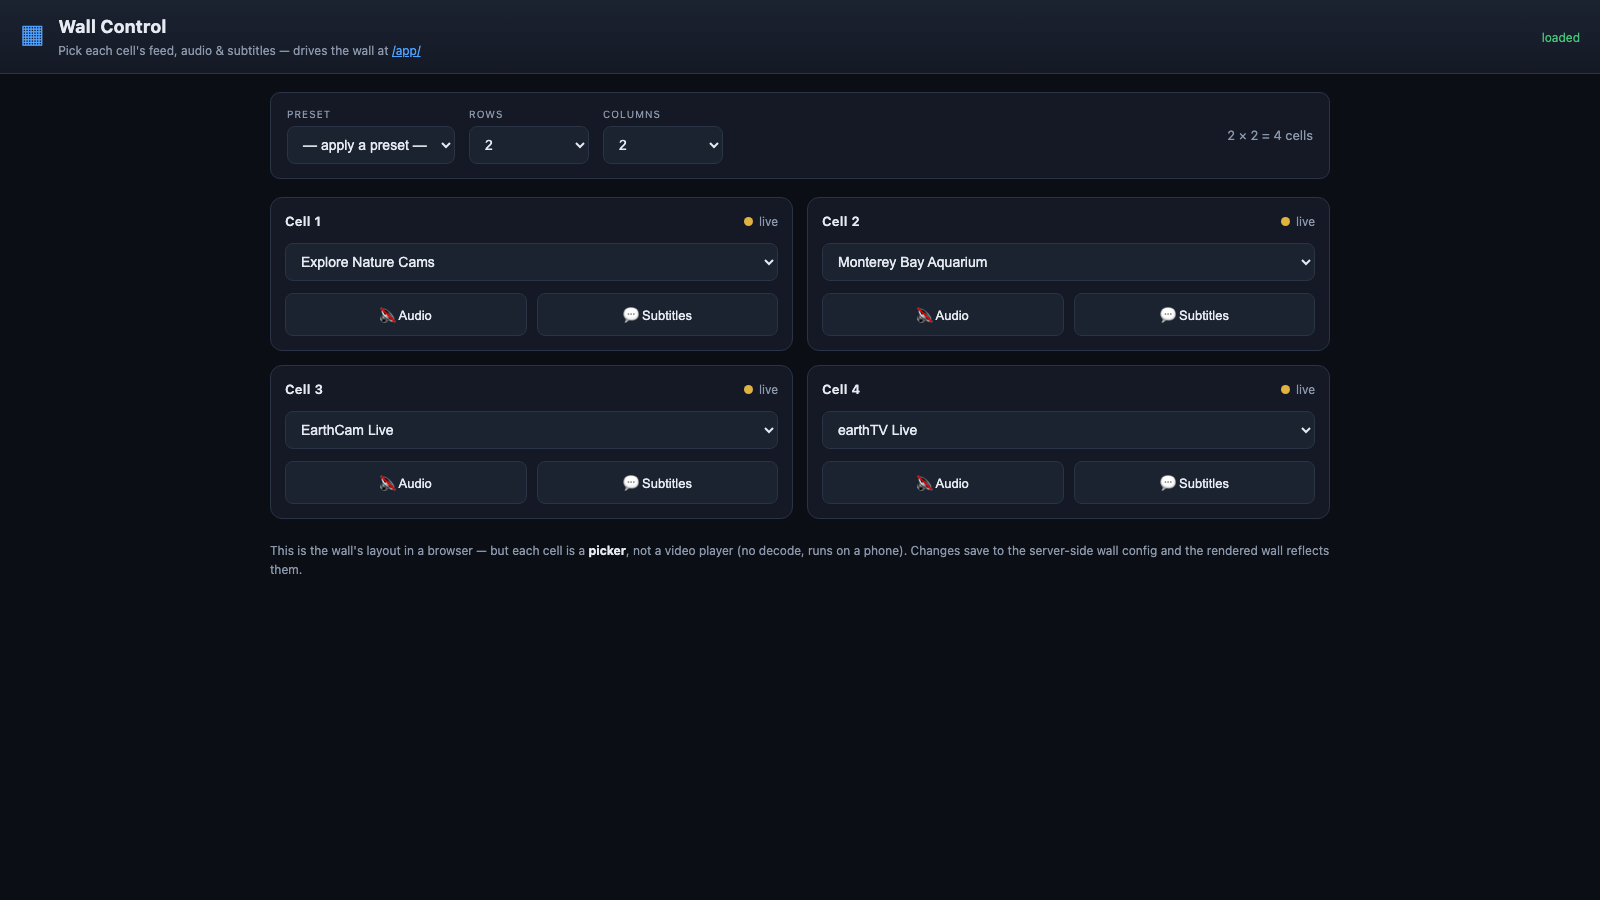
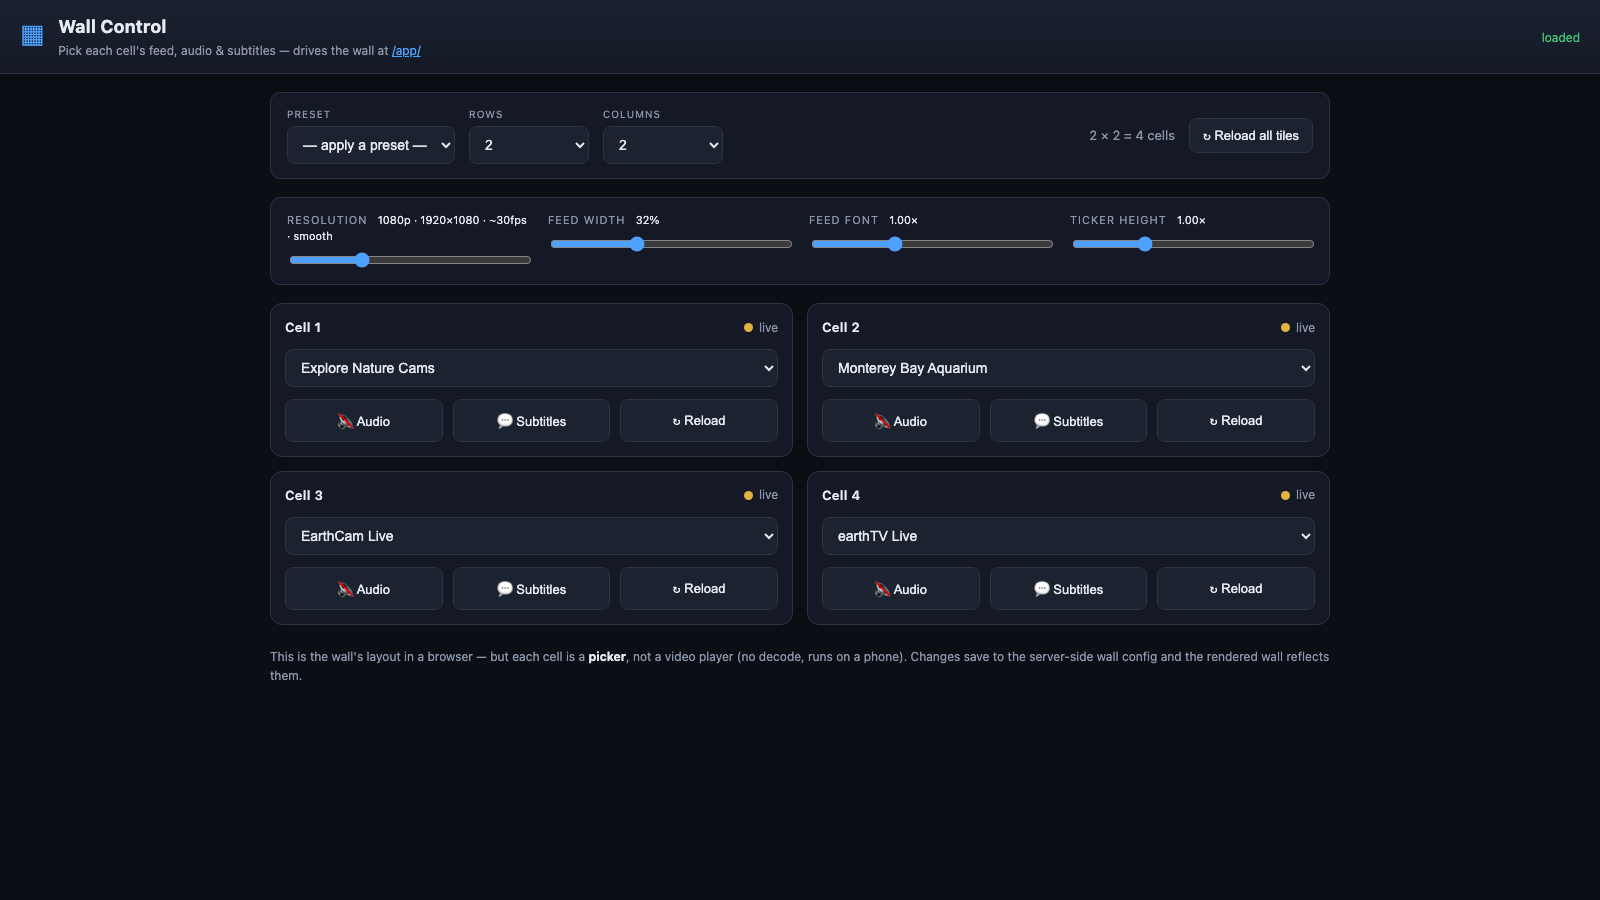
docs(gallery): capture the /control/ display-tuning panel + correct stale screenshot descriptions
The /control/ capture was a viewport screenshot, so the §32 display-tuning panel (resolution ladder
/ feed width / feed font / ticker height) sat below the fold — control.png showed only layout +
cells. Fix the capture to fullPage so the panel is in-frame, and regenerate control.png (it now
shows the resolution/feed/ticker sliders). Only control.png changed; the other shots' re-render
noise was reverted (not byte-reproducible).

Also correct the committed descriptions:
- channel-picker.png: the category order was stale + omitted Business and the new Weather Radar
  section — now Sports / US News / Global News / Business / Weather / Weather Radar / Cameras /
  Government / Nature / Space / General.
- control.png: description now includes the Display-tuning panel + the Weather Radar widget option.

Phantom honesty respected: /control/ is a picker surface (no video tiles), captured in phantom mode
with no real topology; a wall radar shot is still not honestly capturable in phantom (offline-only),
so none was added.

diff --git a/docs/screenshots/README.md b/docs/screenshots/README.md
@@ -24,10 +24,10 @@ screenshots show exactly that.
 | `wall-preset-nature.png` | A **non-default wall preset applied** — the **Nature** preset switches the whole grid to its server-defined channel-set (Explore Nature Cams · Monterey Bay Aquarium · EarthCam · earthTV) and its 2×2 layout in one step. The HLS nature cams show the honest "on the TV wall" placeholder in the demo browser; the point of the shot is the preset swap (channels + grid), not playback. |
 | `settings.png` | The settings modal (reached from the side menu) — grid rows×cols (**2×3 default**), feed width/size/recency, feed-source toggles **grouped by category**, the **captions-off** toggle, ticker speed/motion, sports-league toggles. |
 | `slot-controls.png` | The **per-slot controls** (click a tile / a menu channel row) — Channel · Audio · Reconnect · Close, the web analog of the native SlotControlsOverlay. No captions row (these streams' captions are burned-in / unremovable). |
-| `channel-picker.png` | The channel picker (opened from a slot's Channel row) — the channel lineup **sectioned by category** (Sports / US News / Global News / … / **Government** / Cameras / Nature / Space) with the honest **live / on-the-TV-wall-only / offline** legend. The free **government** feeds (chamber floors, live committee hearings, federal agencies, the White House feed) live in their own **Government** section so US News reads live-dense. |
+| `channel-picker.png` | The channel picker (opened from a slot's Channel row) — the channel lineup **sectioned by category** (Sports / US News / Global News / Business / Weather / **Weather Radar** / Cameras / Government / Nature / Space / General) with the honest **live / on-the-TV-wall-only / offline** legend. The free **government** feeds (chamber floors, live committee hearings, federal agencies, the White House feed) live in their own **Government** section so US News reads live-dense; **Weather Radar** is a web-only widget category (free public NWS radar loops, selectable per cell). |
 | `feed-story-highlighted.png` | A feed headline **selected** (accent-bar highlight) — the highlight→select interaction, keyboard/remote-friendly. |
 | `feed-story-expanded.png` | The **news-story detail** (expand) — the item's own source / time / title / summary (inert plain text) + a "Read at source ↗" link-out. MyMTS never fetches the article itself (A1). |
-| `control.png` | The **picker control surface** (`/control/`) — the headless-container version's wall editor. The wall's layout in a browser, but **each cell is a feed-PICKER** (a category-grouped channel dropdown) + per-cell **Audio** (single-audible) + **Subtitles** toggles, plus grid rows×cols + preset selectors. **No video decode** — it runs on a phone; every change writes the server-side wall config that `/app/` renders from. |
+| `control.png` | The **picker control surface** (`/control/`) — the headless-container version's wall editor. The wall's layout in a browser, but **each cell is a feed-PICKER** (a category-grouped channel dropdown, incl. the Weather Radar widget) + per-cell **Audio** (single-audible) + **Subtitles** toggles, plus grid rows×cols + preset selectors, **plus a Display-tuning panel** — resolution (an 8-rung 720p–2160p ladder), feed width, feed font, and ticker height sliders. **No video decode** — it runs on a phone; every change writes the server-side wall config that `/app/` renders from. |
 
 **Honest note on the demo:** phantom mode does **not** exercise the four bespoke
 individual-sport cards (PGA / UFC / Tennis / F1) — those need live ESPN data, so the demo
